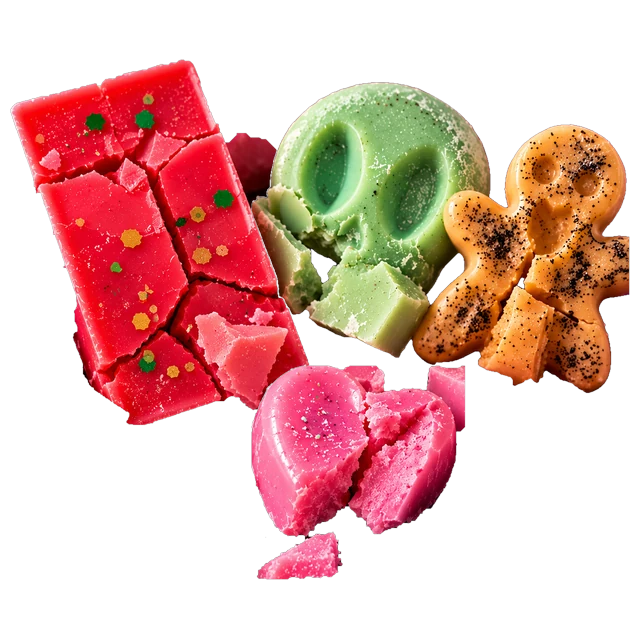
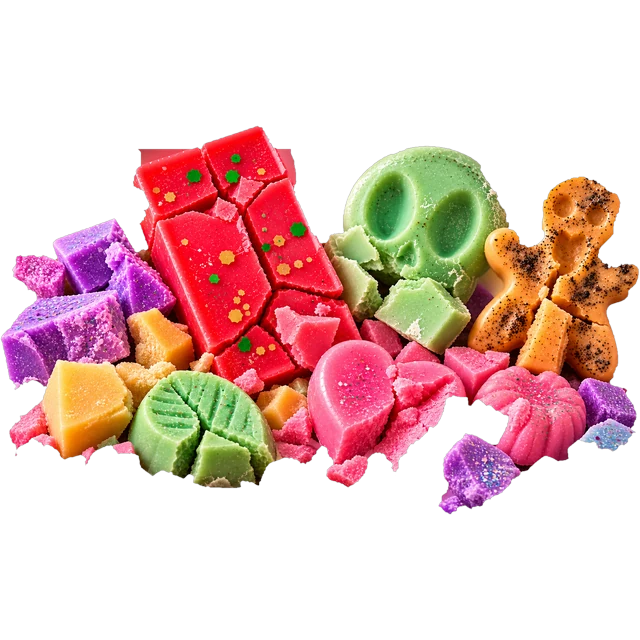
Broken Biscuits tile: the heap photo, cut out (v55)
The new photo's whole heap lifted off its blurred backdrop onto a transparent
background, so it sits in the tile like the other category cut-outs.

Claude-Session: https://claude.ai/code/session_01ArpZSrQ2f65QT3pQRxPtuD

diff --git a/public/admin/index.html b/public/admin/index.html
@@ -6,8 +6,8 @@
 <title>Shop admin | Over The Rainbow</title>
 <meta name="robots" content="noindex, nofollow">
 <link rel="icon" href="/favicon.ico">
-<link rel="stylesheet" href="/assets/css/site.css?v=54">
-<link rel="stylesheet" href="/assets/css/admin.css?v=54">
+<link rel="stylesheet" href="/assets/css/site.css?v=55">
+<link rel="stylesheet" href="/assets/css/admin.css?v=55">
 </head>
 <body class="admin">
 <header class="admin-head"><div class="wrap">
@@ -25,6 +25,6 @@
 <main class="wrap" id="panel" role="tabpanel" tabindex="-1" aria-live="polite"><p class="muted" style="padding:2rem 0">Loading…</p></main>
 <dialog id="editor" class="editor" aria-labelledby="editor-title"></dialog>
 <noscript><p style="padding:2rem">The admin area needs JavaScript.</p></noscript>
-<script type="module" src="/assets/js/admin.js?v=54"></script>
+<script type="module" src="/assets/js/admin.js?v=55"></script>
 </body>
 </html>

diff --git a/public/checkout.html b/public/checkout.html
@@ -14,7 +14,7 @@
 <link rel="icon" href="/favicon.ico" sizes="48x48">
 <link rel="apple-touch-icon" href="/assets/img/icon-192.png">
 <link rel="preload" href="/assets/fonts/bricolage-grotesque-latin-wght-normal.woff2" as="font" type="font/woff2" crossorigin>
-<link rel="stylesheet" href="/assets/css/site.css?v=54">
+<link rel="stylesheet" href="/assets/css/site.css?v=55">
 </head>
 <body>
 <!-- chrome:start -->
@@ -73,6 +73,6 @@
 </div><p class="footer-base">© <span id="year"></span> Over The Rainbow. Prices in GBP. UK delivery only.</p></div></footer>
 <!-- footer:end -->
 <noscript><p style="padding:2rem;text-align:center">This shop needs JavaScript switched on to add items to your basket and check out.</p></noscript>
-<script type="module" src="/assets/js/checkout.js?v=54"></script>
+<script type="module" src="/assets/js/checkout.js?v=55"></script>
 </body>
 </html>

diff --git a/public/product.html b/public/product.html
@@ -13,7 +13,7 @@
 <link rel="icon" href="/favicon.ico" sizes="48x48">
 <link rel="apple-touch-icon" href="/assets/img/icon-192.png">
 <link rel="preload" href="/assets/fonts/bricolage-grotesque-latin-wght-normal.woff2" as="font" type="font/woff2" crossorigin>
-<link rel="stylesheet" href="/assets/css/site.css?v=54">
+<link rel="stylesheet" href="/assets/css/site.css?v=55">
 </head>
 <body>
 <!-- chrome:start -->
@@ -51,6 +51,6 @@
 </div><p class="footer-base">© <span id="year"></span> Over The Rainbow. Prices in GBP. UK delivery only.</p></div></footer>
 <!-- footer:end -->
 <noscript><p style="padding:2rem;text-align:center">This shop needs JavaScript switched on to add items to your basket and check out.</p></noscript>
-<script type="module" src="/assets/js/product.js?v=54"></script>
+<script type="module" src="/assets/js/product.js?v=55"></script>
 </body>
 </html>

diff --git a/public/basket.html b/public/basket.html
@@ -14,7 +14,7 @@
 <link rel="icon" href="/favicon.ico" sizes="48x48">
 <link rel="apple-touch-icon" href="/assets/img/icon-192.png">
 <link rel="preload" href="/assets/fonts/bricolage-grotesque-latin-wght-normal.woff2" as="font" type="font/woff2" crossorigin>
-<link rel="stylesheet" href="/assets/css/site.css?v=54">
+<link rel="stylesheet" href="/assets/css/site.css?v=55">
 </head>
 <body>
 <!-- chrome:start -->
@@ -46,6 +46,6 @@
 </div><p class="footer-base">© <span id="year"></span> Over The Rainbow. Prices in GBP. UK delivery only.</p></div></footer>
 <!-- footer:end -->
 <noscript><p style="padding:2rem;text-align:center">This shop needs JavaScript switched on to add items to your basket and check out.</p></noscript>
-<script type="module" src="/assets/js/basket.js?v=54"></script>
+<script type="module" src="/assets/js/basket.js?v=55"></script>
 </body>
 </html>

diff --git a/public/cancelled.html b/public/cancelled.html
@@ -14,7 +14,7 @@
 <link rel="icon" href="/favicon.ico" sizes="48x48">
 <link rel="apple-touch-icon" href="/assets/img/icon-192.png">
 <link rel="preload" href="/assets/fonts/bricolage-grotesque-latin-wght-normal.woff2" as="font" type="font/woff2" crossorigin>
-<link rel="stylesheet" href="/assets/css/site.css?v=54">
+<link rel="stylesheet" href="/assets/css/site.css?v=55">
 </head>
 <body>
 <!-- chrome:start -->
@@ -46,6 +46,6 @@
 </div><p class="footer-base">© <span id="year"></span> Over The Rainbow. Prices in GBP. UK delivery only.</p></div></footer>
 <!-- footer:end -->
 <noscript><p style="padding:2rem;text-align:center">This shop needs JavaScript switched on to add items to your basket and check out.</p></noscript>
-<script type="module" src="/assets/js/status.js?v=54"></script>
+<script type="module" src="/assets/js/status.js?v=55"></script>
 </body>
 </html>

diff --git a/public/demo-checkout.html b/public/demo-checkout.html
@@ -14,7 +14,7 @@
 <link rel="icon" href="/favicon.ico" sizes="48x48">
 <link rel="apple-touch-icon" href="/assets/img/icon-192.png">
 <link rel="preload" href="/assets/fonts/bricolage-grotesque-latin-wght-normal.woff2" as="font" type="font/woff2" crossorigin>
-<link rel="stylesheet" href="/assets/css/site.css?v=54">
+<link rel="stylesheet" href="/assets/css/site.css?v=55">
 </head>
 <body>
 <!-- chrome:start -->
@@ -46,6 +46,6 @@
 </div><p class="footer-base">© <span id="year"></span> Over The Rainbow. Prices in GBP. UK delivery only.</p></div></footer>
 <!-- footer:end -->
 <noscript><p style="padding:2rem;text-align:center">This shop needs JavaScript switched on to add items to your basket and check out.</p></noscript>
-<script type="module" src="/assets/js/status.js?v=54"></script>
+<script type="module" src="/assets/js/status.js?v=55"></script>
 </body>
 </html>

diff --git a/public/success.html b/public/success.html
@@ -14,7 +14,7 @@
 <link rel="icon" href="/favicon.ico" sizes="48x48">
 <link rel="apple-touch-icon" href="/assets/img/icon-192.png">
 <link rel="preload" href="/assets/fonts/bricolage-grotesque-latin-wght-normal.woff2" as="font" type="font/woff2" crossorigin>
-<link rel="stylesheet" href="/assets/css/site.css?v=54">
+<link rel="stylesheet" href="/assets/css/site.css?v=55">
 </head>
 <body>
 <!-- chrome:start -->
@@ -46,6 +46,6 @@
 </div><p class="footer-base">© <span id="year"></span> Over The Rainbow. Prices in GBP. UK delivery only.</p></div></footer>
 <!-- footer:end -->
 <noscript><p style="padding:2rem;text-align:center">This shop needs JavaScript switched on to add items to your basket and check out.</p></noscript>
-<script type="module" src="/assets/js/status.js?v=54"></script>
+<script type="module" src="/assets/js/status.js?v=55"></script>
 </body>
 </html>

diff --git a/public/404.html b/public/404.html
@@ -14,7 +14,7 @@
 <link rel="icon" href="/favicon.ico" sizes="48x48">
 <link rel="apple-touch-icon" href="/assets/img/icon-192.png">
 <link rel="preload" href="/assets/fonts/bricolage-grotesque-latin-wght-normal.woff2" as="font" type="font/woff2" crossorigin>
-<link rel="stylesheet" href="/assets/css/site.css?v=54">
+<link rel="stylesheet" href="/assets/css/site.css?v=55">
 </head>
 <body>
 <!-- chrome:start -->
@@ -46,6 +46,6 @@
 </div><p class="footer-base">© <span id="year"></span> Over The Rainbow. Prices in GBP. UK delivery only.</p></div></footer>
 <!-- footer:end -->
 <noscript><p style="padding:2rem;text-align:center">This shop needs JavaScript switched on to add items to your basket and check out.</p></noscript>
-<script type="module" src="/assets/js/site.js?v=54"></script>
+<script type="module" src="/assets/js/site.js?v=55"></script>
 </body>
 </html>

diff --git a/public/blog-post.html b/public/blog-post.html
@@ -13,7 +13,7 @@
 <link rel="icon" href="/favicon.ico" sizes="48x48">
 <link rel="apple-touch-icon" href="/assets/img/icon-192.png">
 <link rel="preload" href="/assets/fonts/bricolage-grotesque-latin-wght-normal.woff2" as="font" type="font/woff2" crossorigin>
-<link rel="stylesheet" href="/assets/css/site.css?v=54">
+<link rel="stylesheet" href="/assets/css/site.css?v=55">
 </head>
 <body>
 <!-- chrome:start -->
@@ -45,6 +45,6 @@
 </div><p class="footer-base">© <span id="year"></span> Over The Rainbow. Prices in GBP. UK delivery only.</p></div></footer>
 <!-- footer:end -->
 <noscript><p style="padding:2rem;text-align:center">This shop needs JavaScript switched on to add items to your basket and check out.</p></noscript>
-<script type="module" src="/assets/js/post.js?v=54"></script>
+<script type="module" src="/assets/js/post.js?v=55"></script>
 </body>
 </html>

diff --git a/public/blog.html b/public/blog.html
@@ -13,7 +13,7 @@
 <link rel="icon" href="/favicon.ico" sizes="48x48">
 <link rel="apple-touch-icon" href="/assets/img/icon-192.png">
 <link rel="preload" href="/assets/fonts/bricolage-grotesque-latin-wght-normal.woff2" as="font" type="font/woff2" crossorigin>
-<link rel="stylesheet" href="/assets/css/site.css?v=54">
+<link rel="stylesheet" href="/assets/css/site.css?v=55">
 </head>
 <body>
 <!-- chrome:start -->
@@ -45,6 +45,6 @@
 </div><p class="footer-base">© <span id="year"></span> Over The Rainbow. Prices in GBP. UK delivery only.</p></div></footer>
 <!-- footer:end -->
 <noscript><p style="padding:2rem;text-align:center">This shop needs JavaScript switched on to add items to your basket and check out.</p></noscript>
-<script type="module" src="/assets/js/blog.js?v=54"></script>
+<script type="module" src="/assets/js/blog.js?v=55"></script>
 </body>
 </html>

diff --git a/public/contact.html b/public/contact.html
@@ -13,7 +13,7 @@
 <link rel="icon" href="/favicon.ico" sizes="48x48">
 <link rel="apple-touch-icon" href="/assets/img/icon-192.png">
 <link rel="preload" href="/assets/fonts/bricolage-grotesque-latin-wght-normal.woff2" as="font" type="font/woff2" crossorigin>
-<link rel="stylesheet" href="/assets/css/site.css?v=54">
+<link rel="stylesheet" href="/assets/css/site.css?v=55">
 </head>
 <body>
 <!-- chrome:start -->
@@ -46,6 +46,6 @@
 </div><p class="footer-base">© <span id="year"></span> Over The Rainbow. Prices in GBP. UK delivery only.</p></div></footer>
 <!-- footer:end -->
 <noscript><p style="padding:2rem;text-align:center">This shop needs JavaScript switched on to add items to your basket and check out.</p></noscript>
-<script type="module" src="/assets/js/page.js?v=54"></script>
+<script type="module" src="/assets/js/page.js?v=55"></script>
 </body>
 </html>

diff --git a/public/delivery-returns.html b/public/delivery-returns.html
@@ -13,7 +13,7 @@
 <link rel="icon" href="/favicon.ico" sizes="48x48">
 <link rel="apple-touch-icon" href="/assets/img/icon-192.png">
 <link rel="preload" href="/assets/fonts/bricolage-grotesque-latin-wght-normal.woff2" as="font" type="font/woff2" crossorigin>
-<link rel="stylesheet" href="/assets/css/site.css?v=54">
+<link rel="stylesheet" href="/assets/css/site.css?v=55">
 </head>
 <body>
 <!-- chrome:start -->
@@ -45,6 +45,6 @@
 </div><p class="footer-base">© <span id="year"></span> Over The Rainbow. Prices in GBP. UK delivery only.</p></div></footer>
 <!-- footer:end -->
 <noscript><p style="padding:2rem;text-align:center">This shop needs JavaScript switched on to add items to your basket and check out.</p></noscript>
-<script type="module" src="/assets/js/page.js?v=54"></script>
+<script type="module" src="/assets/js/page.js?v=55"></script>
 </body>
 </html>
